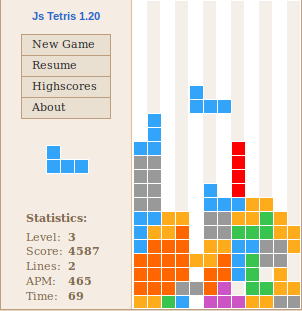
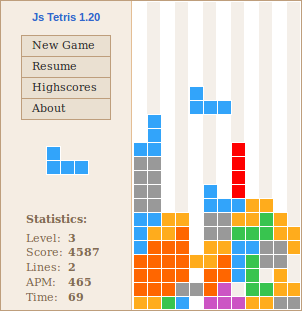
Add animated gif screenshot

diff --git a/README.md b/README.md
@@ -17,9 +17,9 @@ zip file and open tetris.html in your browser. Download it from
 the [Releases page](../../releases).
 
 
-## Screenshot
+## Screenshot (animated gif)
 
-![Screenshot of JS Tetris game](https://raw.githubusercontent.com/cztomczak/jstetris/master/screenshots/jstetris120.png)
+![Screenshot of JS Tetris game](https://raw.githubusercontent.com/cztomczak/jstetris/master/screenshots/Tetris_basic_game.gif)
 
 
 ## Can you beat it?
